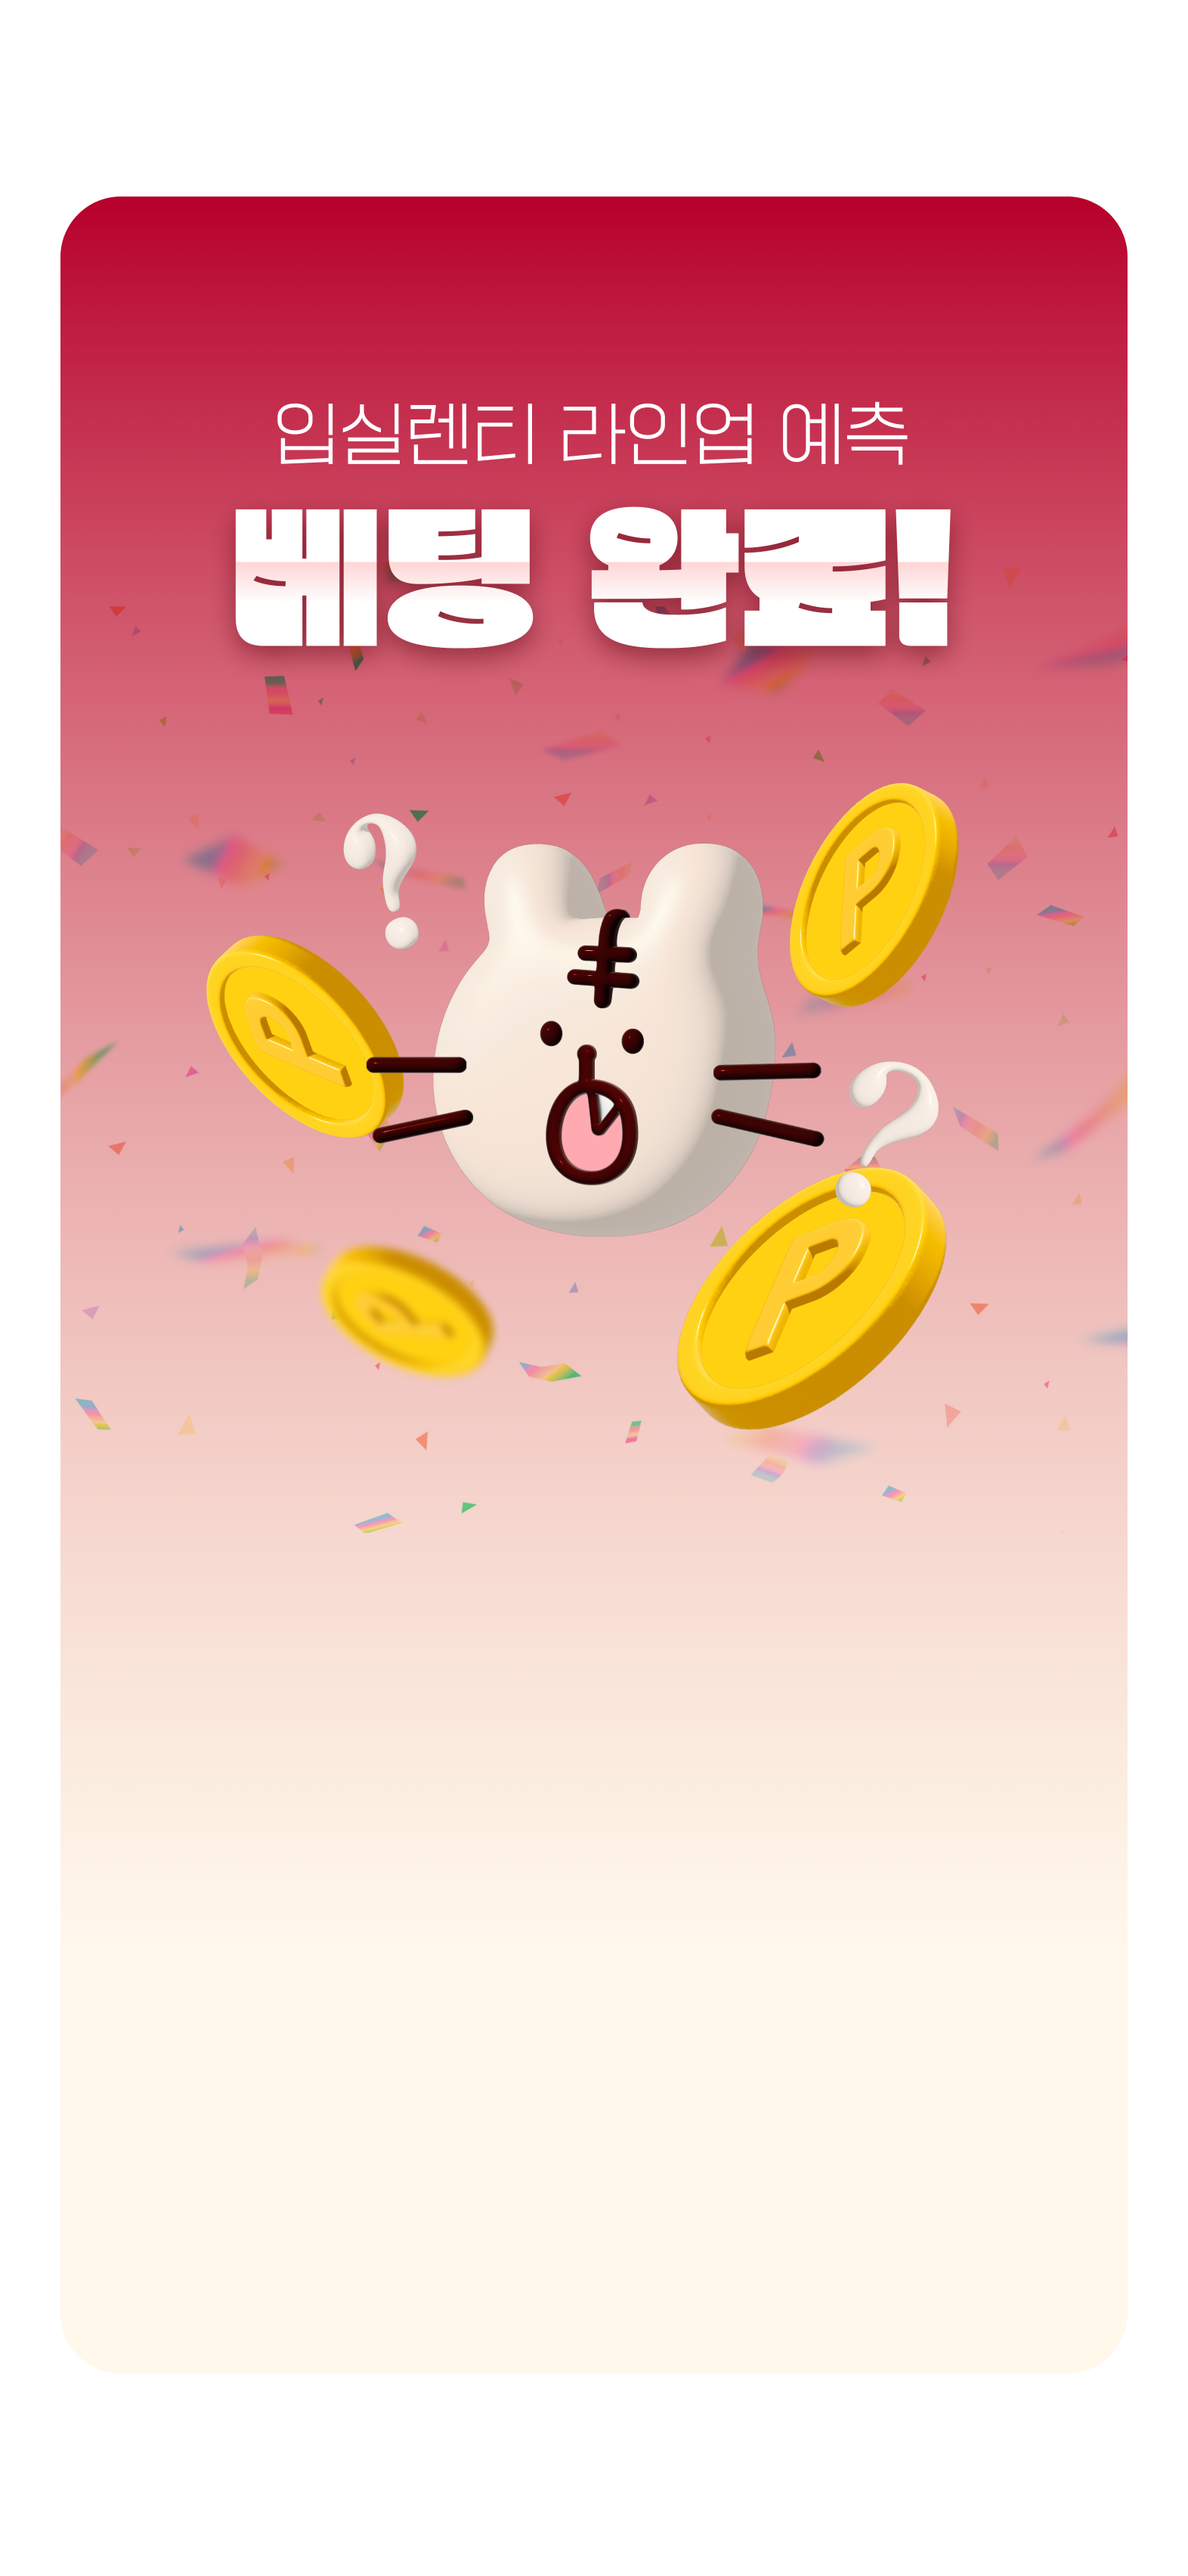
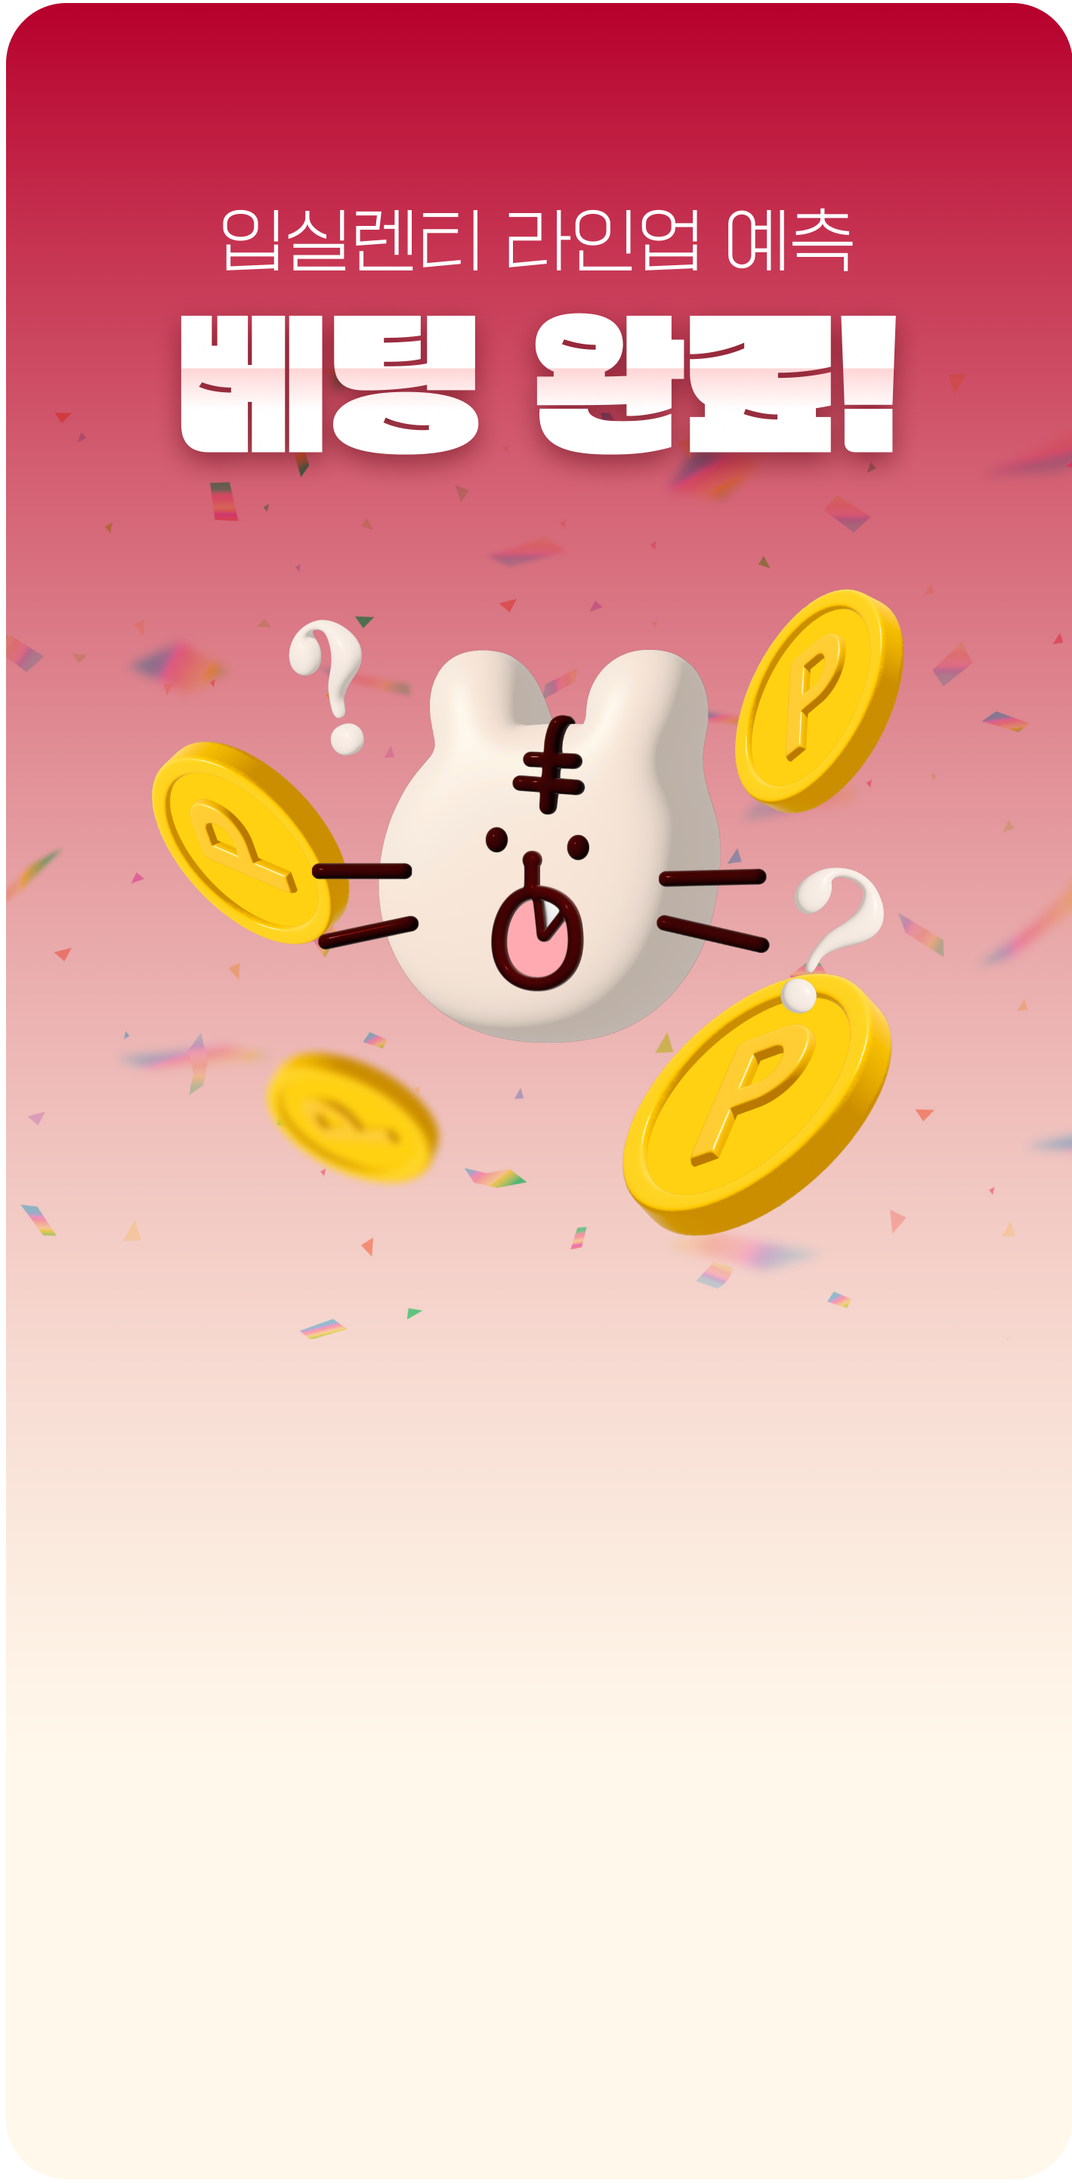
feat: 공유하기 모달 디자인  완성

diff --git a/src/App.css b/src/App.css
@@ -1284,7 +1284,7 @@ cursor: pointer;
 
 .modalClose {
   position: absolute;
-  margin-top: 4%;
+  top: 3%;
   right: 5%;
   cursor: pointer;
   font-size: 16px;
@@ -1513,25 +1513,122 @@ hr {
 
 .shareModal {
   position: relative;
-  max-width: 330px;
-  max-height: 630px;
-  width: 70vw;
-  height: 20%;
+  max-width: 350px;
+  max-height: 900px;
+  width: 95%;
+  height: 95%;
   top: 50%;
   left: 50%;
   transform: translate(-50%, -50%);
   border-radius: 10px;
-  border: solid black 2px;
-  box-shadow: 0 0 10px rgba(0, 0, 0, 0.3);
-  background-color: white;
+ /*  border: solid green 2px; */
+/*   box-shadow: 0 0 10px rgba(0, 0, 0, 0.3); */
+  background-color: transparent;
 }
 
-.shareContainer {
-  position: absolute;
-  width: 90%;
-  top: 8%;
-  left: 10%;
+.shareInfo{
+  background-color: transparent;
+  position: relative;
+  width: 80%;
+  height: 30%;
+  top: 23.5%;
+  margin-left: 5%;
+  margin-right: 5%;
 }
+.picDiv{
+  background-color: transparent;
+  display: flex;
+  flex-direction: row;
+  justify-content: center;
+  align-items: center;
+  position: relative;
+  height: 100%;
+  width: auto;
+  aspect-ratio: 1419 / 2889;
+}
+
+.shareContainer1 {
+  width: 100%;
+  height: 100%;
+  background-image: url('../src/img/bettingComplete1.png');
+  background-color: transparent;
+  background-repeat: no-repeat;
+  background-size: contain;
+  background-position: center;
+  position: relative;
+  display: flex;
+  flex-direction: column;
+  justify-content: center;
+  align-items: center;
+
+  background-color: transparent;
+}
+.shareContainer2 {
+  width: 100%;
+  height: 100%;
+  background-image: url('../src/img/bettingComplete2.png');
+  background-color: transparent;
+  background-repeat: no-repeat;
+  background-size: contain;
+  background-position: center;
+  position: relative;
+  display: flex;
+  flex-direction: column;
+  justify-content: center;
+  align-items: center;
+
+  background-color: transparent;
+}
+.shareContainer3 {
+  width: 100%;
+  height: 100%;
+  background-image: url('../src/img/bettingComplete3.png');
+  background-color: transparent;
+  background-repeat: no-repeat;
+  background-size: contain;
+  background-position: center;
+  position: relative;
+  display: flex;
+  flex-direction: column;
+  justify-content: center;
+  align-items: center;
+
+  background-color: transparent;
+}
+.shareContainer4 {
+  width: 100%;
+  height: 100%;
+  background-image: url('../src/img/bettingComplete4.png');
+  background-color: transparent;
+  background-repeat: no-repeat;
+  background-size: contain;
+  background-position: center;
+  position: relative;
+  display: flex;
+  flex-direction: column;
+  justify-content: center;
+  align-items: center;
+
+  background-color: transparent;
+}
+.shareContainer5 {
+  width: 100%;
+  height: 100%;
+  background-image: url('../src/img/bettingComplete5.png');
+  background-color: transparent;
+  background-repeat: no-repeat;
+  background-size: contain;
+  background-position: center;
+  position: relative;
+  display: flex;
+  flex-direction: column;
+  justify-content: center;
+  align-items: center;
+
+  background-color: transparent;
+}
+
+
 
 .shareLink {
   width: 80%;
@@ -1541,14 +1638,15 @@ hr {
 .copyBtn {
   color: white;
   position: absolute;
-  right: 35%;
-  top: 75%;
+  background: linear-gradient( to right, #DE3A58, #9F132E );
+  top: 90%;
   font-weight: 700;
   font-size: 14px;
-  border-radius: 6px;
+  border-radius: 30px;
   border: none;
-  width: 30%;
-  height: 15%;
+  width: 55%;
+  height: 5%;
   cursor: pointer;
   padding: 5px;
+  align-items: center;
 }

diff --git a/src/components/ShareModal.jsx b/src/components/ShareModal.jsx
@@ -2,11 +2,14 @@ import Modal from 'react-modal';
 import { useState } from 'react';
 import { GrClose } from 'react-icons/gr';
 import { CopyToClipboard } from "react-copy-to-clipboard";
-
 function ShareModal() {
     const [modalOpen, setModalOpen] = useState(false);
-    const [buttonText, setButtonText] = useState('복사하기');
-    const [buttonColor, setButtonColor] = useState({backgroundColor: "red"});
+    const [buttonText, setButtonText] = useState('url 복사하기');
+
+
+const randomNumber = Math.floor(Math.random() * 5) + 1; // 1부터 5까지의 랜덤한 숫자 생성
+const className = `shareContainer${randomNumber}` // 랜덤한 숫자를 이미지 경로에 적용
+
     const handleClick = () => {
         setButtonText('복사완료');
         setButtonColor({backgroundColor: "grey"})
@@ -18,19 +21,35 @@ function ShareModal() {
             className='shareModal'
             isOpen={modalOpen}
             onRequestClose={() => setModalOpen(false)}>
+                <div className= {className}>
+                
+                
+                <div className='picDiv'>
                 <GrClose className='modalClose' onClick={() => setModalOpen(false)}/>
-                <div className='shareContainer'>
-                    <h2>공유</h2>
-                    <input className='shareLink' placeholder='www.asku.wiki/lineupevent' disabled></input>
+                <div className='shareInfo'>
+                    
+                    
+                    <div style={{color:'#9F132E',fontSize:'1.5vh', fontWeight: "bold"}}>000님의 베팅</div>
+                    <div style={{fontWeight:"bold", marginTop:'1.5vh',fontSize: '2.25vh'}}>IVE(아이브)</div>
+                    <div style={{display:'flex', fontSize:'1.5vh', marginTop:'1.5vh', flexDirection:'row'}}><div style={{color: '#747474'}}>베팅 포인트</div><div>&nbsp;&nbsp;&nbsp;&nbsp;&nbsp;&nbsp;1000 P</div> </div>
+                    <div style={{display:'flex', fontSize:'1.5vh', marginTop:'1.5vh', flexDirection:'row'}}><div style={{color: '#747474'}}>현재 배당률</div><div>&nbsp;&nbsp;&nbsp;&nbsp;&nbsp;&nbsp;1000 %</div></div>
+                    <div style={{display:'flex', fontSize:'1.5vh', marginTop:'1.5vh', flexDirection:'row'}}><div style={{color: '#747474'}}>예상 배당금</div><div>&nbsp;&nbsp;&nbsp;&nbsp;&nbsp;&nbsp;1000 P</div></div>
+                    <div style={{display:'flex', fontSize:'1.5vh', marginTop:'1.5vh', flexDirection:'row'}}><div style={{color: '#747474'}}>잔여 포인트</div><div>&nbsp;&nbsp;&nbsp;&nbsp;&nbsp;&nbsp;1000 P</div></div>
+                    <div style={{width: '100%', color: '#9F132E', position: 'absolute', bottom: '0' , display: 'flex', justifyContent: 'center', flexDirection: 'column', alignItems: 'center', fontSize: '1.5vh' }}>
+                        <div>화면 캡쳐와 URL공유로</div>
+                        <div>인스타그램 스토리에 내 베팅현황을 공유하세요!</div>
+                    </div>
+                </div>
                 </div>
                 <CopyToClipboard text='www.asku.wiki/lineupevent'>
                     <button
                     onClick={handleClick}
                     className='copyBtn'
-                    style={buttonColor}>
+                   >
                         {buttonText}
                     </button>
                 </CopyToClipboard>
+                </div>
             </Modal>
         </div>
     );
